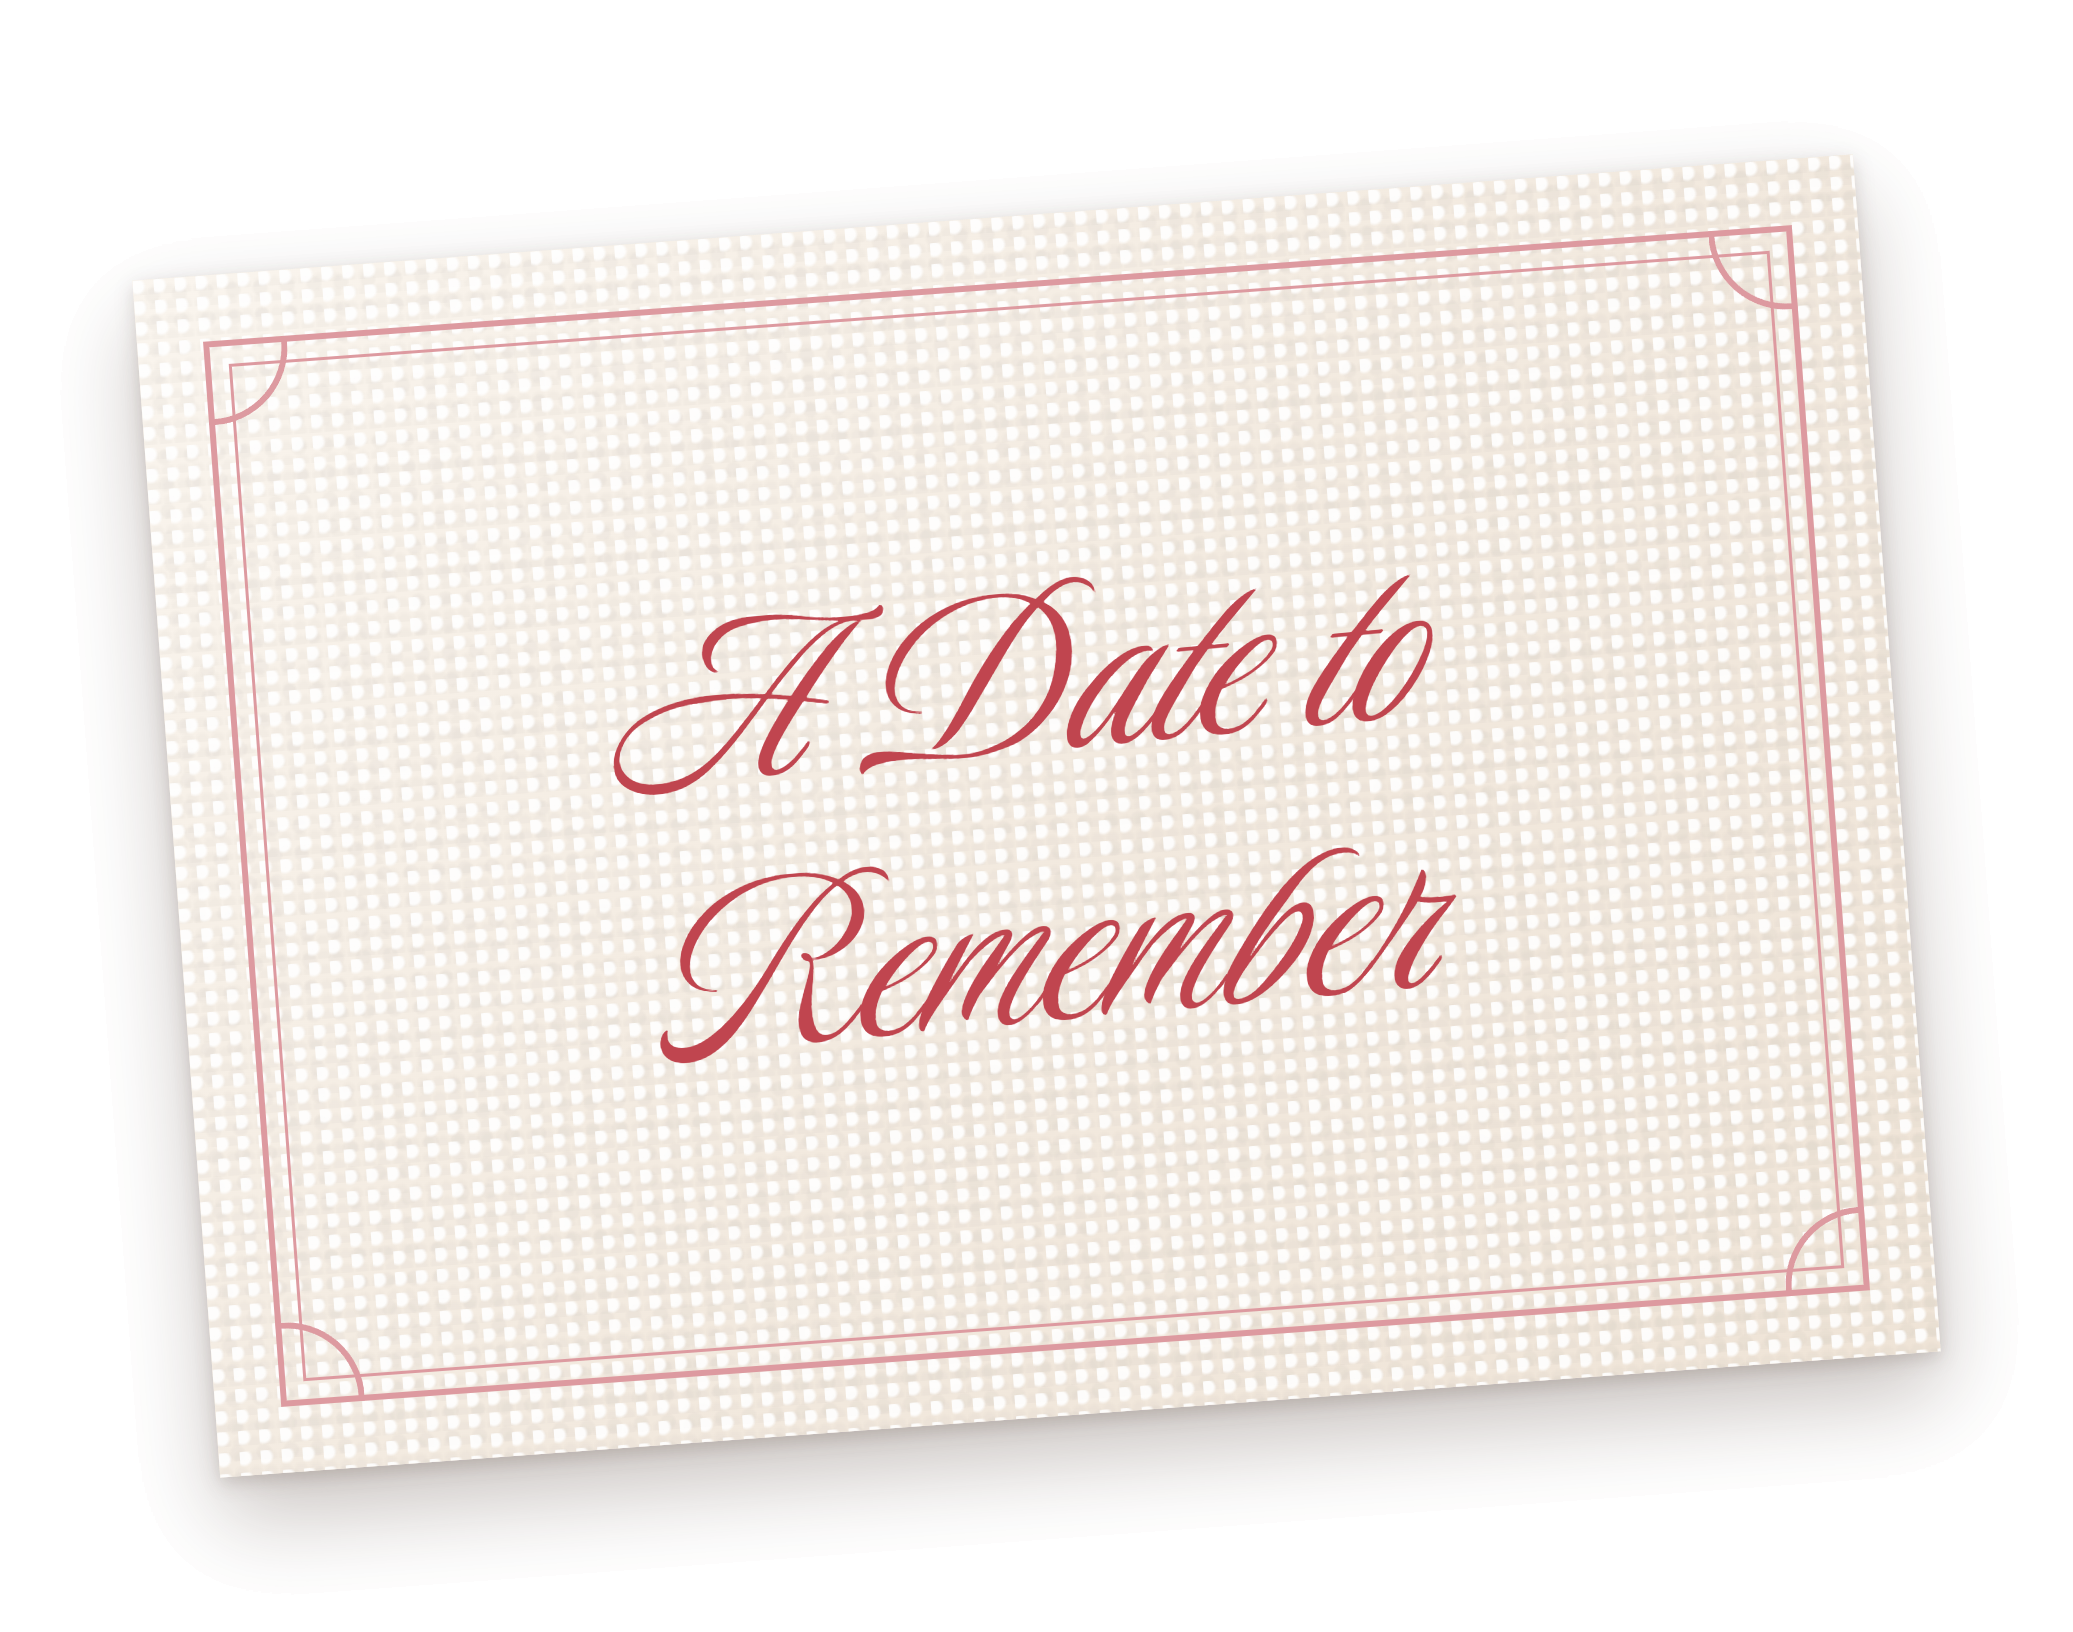
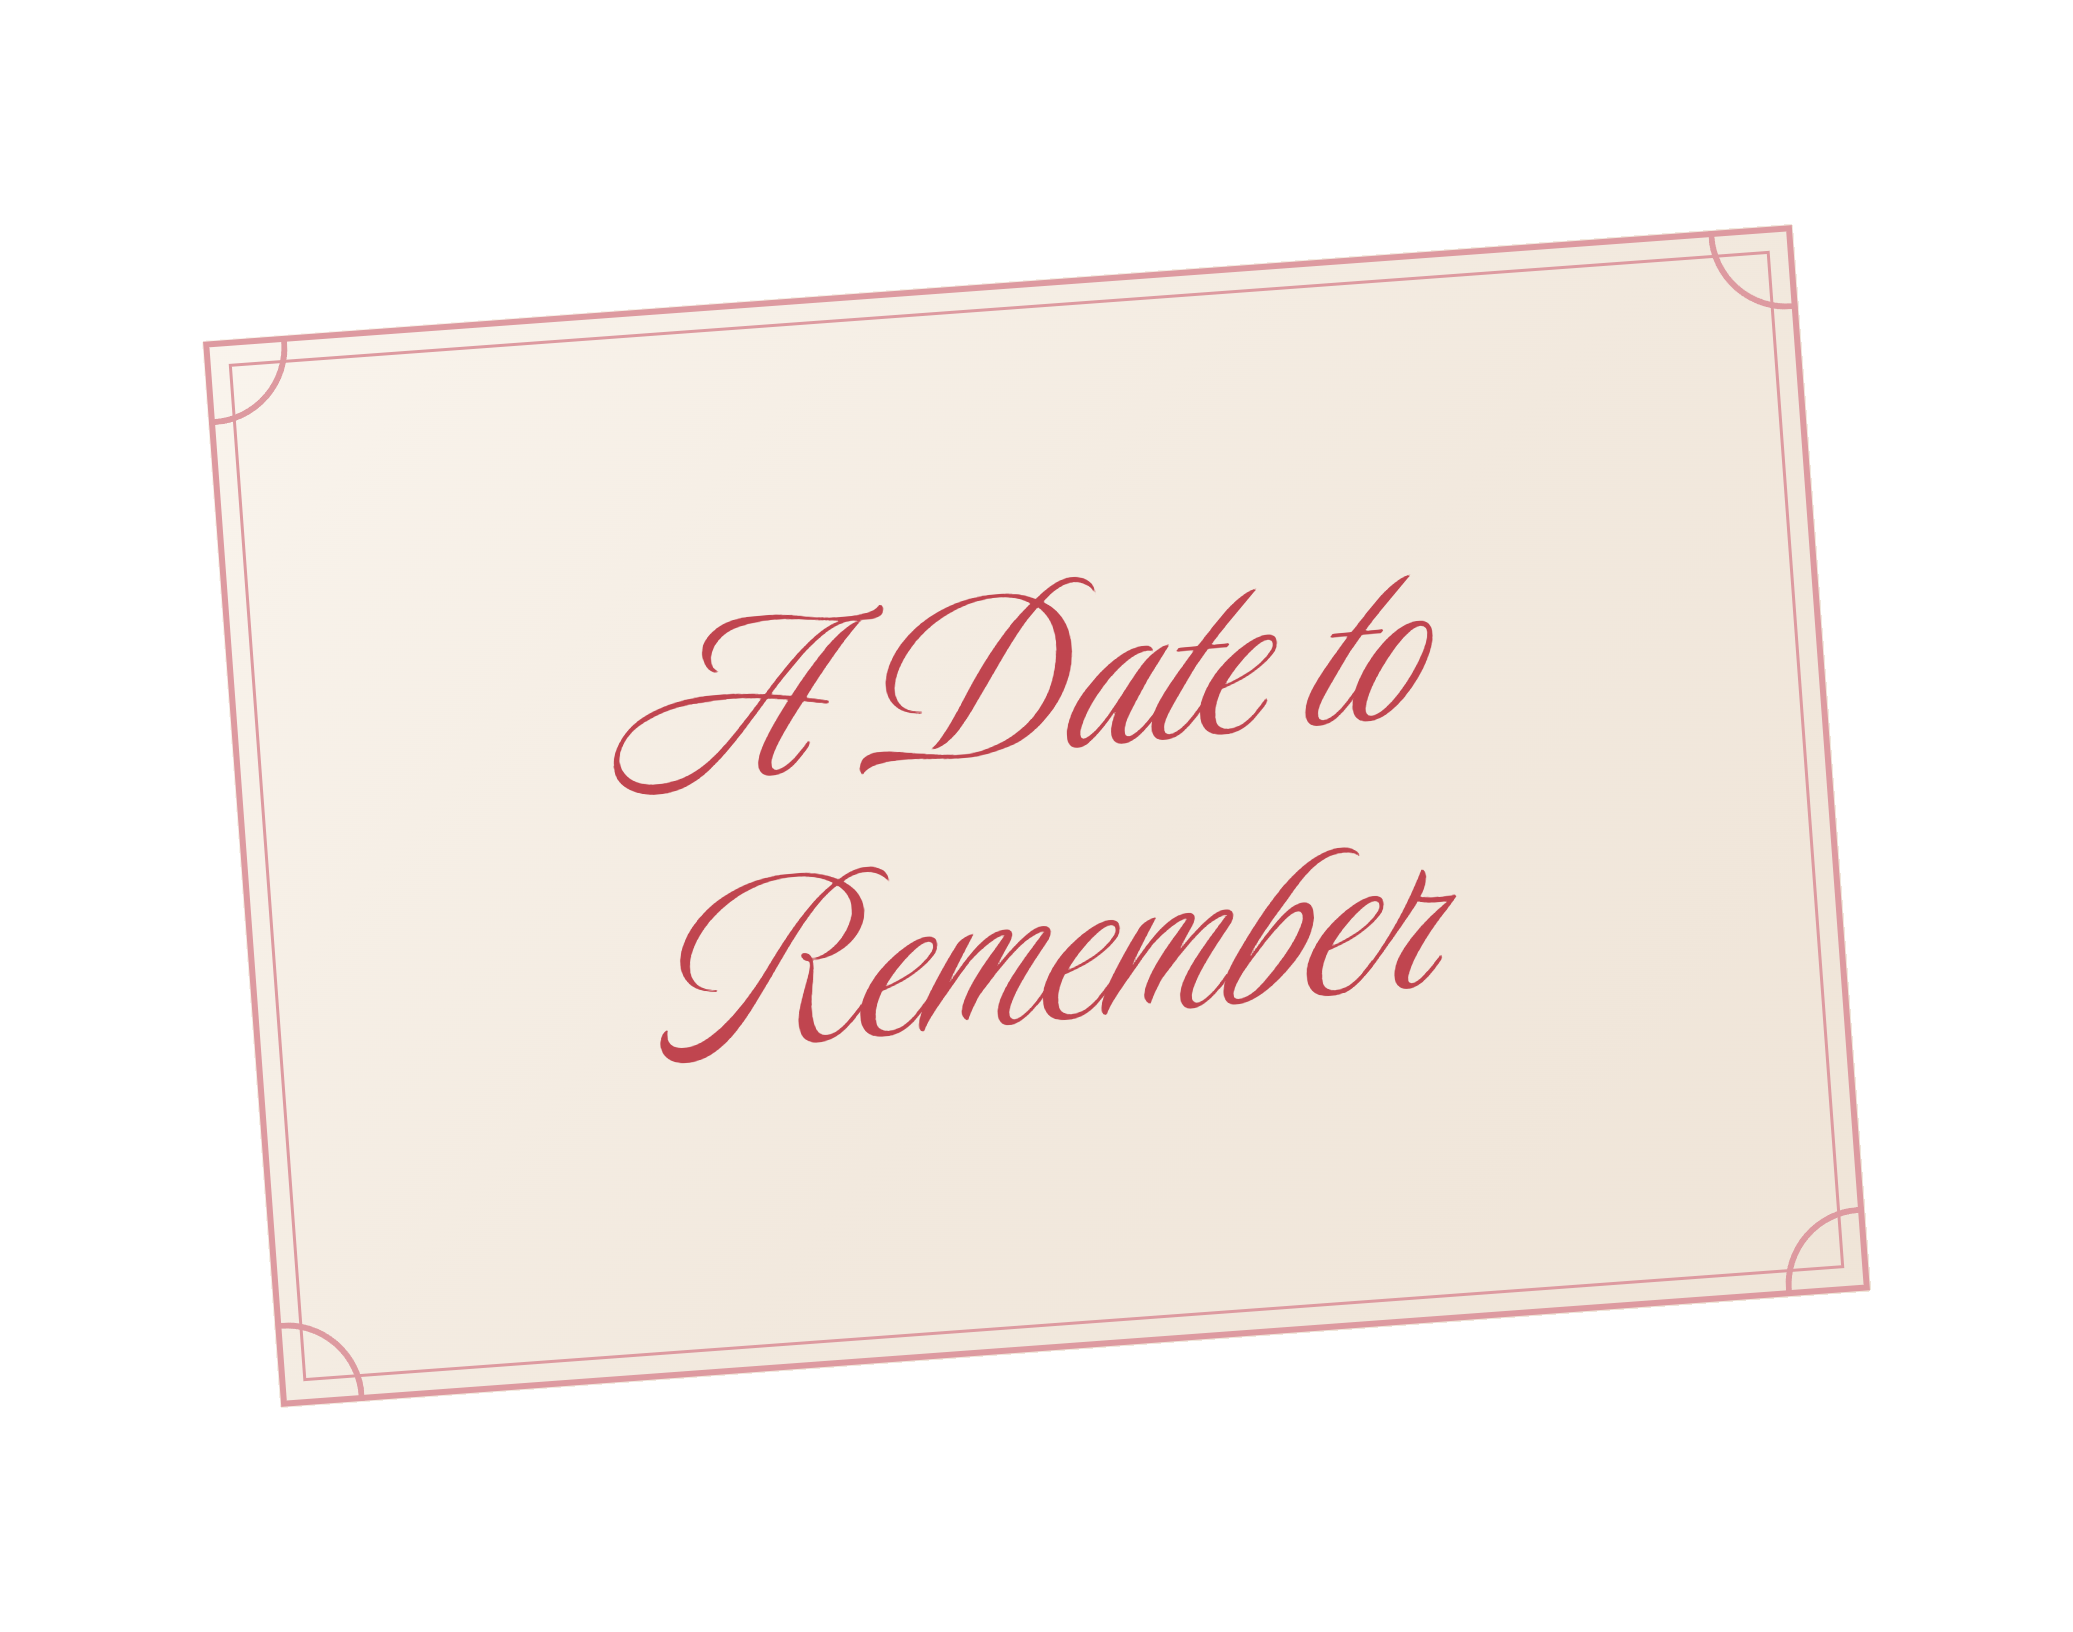
added more changes

Changed region(s): [[0.0617, 0.0938, 0.9571, 0.9375]]

diff --git a/styles.css b/styles.css
@@ -45,7 +45,10 @@ body {
   width: 100%;
   max-width: 430px;
   min-height: 100vh;
-  background: var(--ivory);
+  background:
+    radial-gradient(560px 420px at -8% -6%, rgba(110, 42, 53, 0.11), transparent 60%),
+    radial-gradient(560px 420px at 108% 106%, rgba(110, 42, 53, 0.09), transparent 60%),
+    var(--ivory);
   overflow: hidden;
 }
 
@@ -92,7 +95,7 @@ body {
 
 .display-names {
   font-family: var(--font-script);
-  font-size: 75px;
+  font-size: 70px;
   color: var(--burgundy);
   margin: 0 0 28px;
   text-align: center;
@@ -376,8 +379,10 @@ body {
 .floral-corner {
   position: absolute;
   z-index: 0;
-  top: 40%;
-  left: -16%;
+  /* top: 40%;
+  left: -16%; */
+      top: 35%;
+    left: 1%;
   width: 36%;
   height: auto;
   filter: drop-shadow(0 6px 14px rgba(32, 30, 29, 0.2));
@@ -414,7 +419,7 @@ body {
 
 .disc-wrap {
   position: absolute;
-  top: 31%;
+  top: 37%;
   left: -8%;
   container-type: inline-size;
   width: 50%;
@@ -484,7 +489,7 @@ body {
 }
 
 .disc-letter {
-  font-family: var(--font-display);
+  font-family: var(--font-script);
   font-size: 15.36cqw;
   font-weight: 500;
   font-style: italic;
@@ -492,7 +497,14 @@ body {
   line-height: 1;
 }
 
+/* The script "S" carries extra left-side bearing in this font, so the
+   equal flex gap reads as more space than the "J" side — tighten it. */
+.disc-letter:last-child {
+  margin-left: -1.8cqw;
+}
+
 .disc-heart {
+  font-family: var(--font-script);
   width: 6.07cqw;
   aspect-ratio: 24 / 22;
   fill: #8d0f2c;
@@ -566,7 +578,7 @@ body {
 .rsvp-letter-pop {
   position: absolute;
   z-index: 2;
-  left: 16%;
+  left: 10%;
   top: 10%;
   width: 68%;
   opacity: 0;
@@ -594,25 +606,73 @@ body {
 
 .rsvp-letter {
   display: block;
+  perspective: 1200px;
   transition: transform 0.25s ease;
-}
-
-.rsvp-letter img {
-  display: block;
-  width: 100%;
-  height: auto;
-  filter: drop-shadow(0 10px 18px rgba(58, 46, 39, 0.3));
 }
 
 .rsvp-letter:hover {
   transform: translateY(-3px) scale(1.02);
 }
 
+.rsvp-letter-flip {
+  display: block;
+  position: relative;
+  width: 100%;
+  transform-style: preserve-3d;
+}
+
+.screen.active .rsvp-letter-flip {
+  animation: letter-flip 0.9s cubic-bezier(0.65, 0, 0.35, 1) 10s both;
+}
+
+@keyframes letter-flip {
+  to {
+    transform: rotateY(180deg);
+  }
+}
+
+.rsvp-letter-face {
+  display: block;
+  -webkit-backface-visibility: hidden;
+  backface-visibility: hidden;
+}
+
+.rsvp-letter-front img {
+  display: block;
+  width: 100%;
+  height: auto;
+  filter: drop-shadow(0 10px 18px rgba(58, 46, 39, 0.3));
+}
+
+.rsvp-letter-back {
+  position: absolute;
+  inset: 14% 10%;
+  transform: rotateY(180deg);
+  display: flex;
+  align-items: center;
+  justify-content: center;
+  padding: 8%;
+  background: var(--ivory);
+  border: 1px solid var(--pink);
+  box-shadow:
+    inset 0 0 0 4px var(--ivory),
+    inset 0 0 0 5px var(--pink),
+    0 10px 18px rgba(58, 46, 39, 0.3);
+}
+
+.rsvp-letter-back-text {
+  font-family: var(--font-script);
+  font-size: 22px;
+  line-height: 1.3;
+  color: var(--burgundy);
+  text-align: center;
+}
+
 .polaroid-strip {
   position: absolute;
   z-index: 5;
   left: 74%;
-  top: -34%;
+  top: 22%;
   width: 30%;
   background: #fdfcfa;
   padding: 5px 5px 14px;
@@ -688,14 +748,14 @@ body {
   font-weight: 500;
   letter-spacing: 0.09em;
   text-transform: uppercase;
-  color: var(--olive);
+  color: var(--burgundy);
   margin: 34px 0 6px;
 }
 
 .closing-names {
   font-family: var(--font-script);
   font-size: 46px;
-  color: var(--olive-deep);
+  color: var(--burgundy);
   margin: 0 0 24px;
   line-height: 1;
 }

diff --git a/index.html b/index.html
@@ -8,7 +8,7 @@
 <link rel="preconnect" href="https://fonts.googleapis.com" />
 <link rel="preconnect" href="https://fonts.gstatic.com" crossorigin />
 <link href="https://fonts.googleapis.com/css2?family=Cormorant+Garamond:ital,wght@0,400;0,500;0,600;1,400&family=Droid+Serif:wght@400;700&family=Luxurious+Script&family=Parisienne&display=swap" rel="stylesheet" />
-<link rel="stylesheet" href="styles.css?v=44" />
+<link rel="stylesheet" href="styles.css?v=55" />
 </head>
 <body>
 
@@ -45,8 +45,15 @@
           <img src="assets/opened-envelope-clean.png?v=2" alt="" />
         </div>
         <div class="rsvp-letter-pop">
-          <a class="rsvp-letter" target="_blank" rel="noopener" aria-label="RSVP — click here">
-            <img src="assets/date-to-remember-clean.png" alt="A Date to Remember" />
+          <a class="rsvp-letter" href="mailto:osh.akol@gmail.com?subject=RSVP%20%E2%80%94%20we%27ll%20be%20there!&body=Can%27t%20wait%20to%20celebrate%20with%20you%2C%20Josh%20%26%20Sandra!" aria-label="RSVP — click here if you can make it">
+            <span class="rsvp-letter-flip">
+              <span class="rsvp-letter-face rsvp-letter-front">
+                <img src="assets/date-to-remember-clean.png?v=2" alt="A Date to Remember" />
+              </span>
+              <span class="rsvp-letter-face rsvp-letter-back">
+                <span class="rsvp-letter-back-text">Click here if<br />you can make it!</span>
+              </span>
+            </span>
           </a>
         </div>
         <a class="details-badge" href="#page-2" aria-label="View wedding details">
